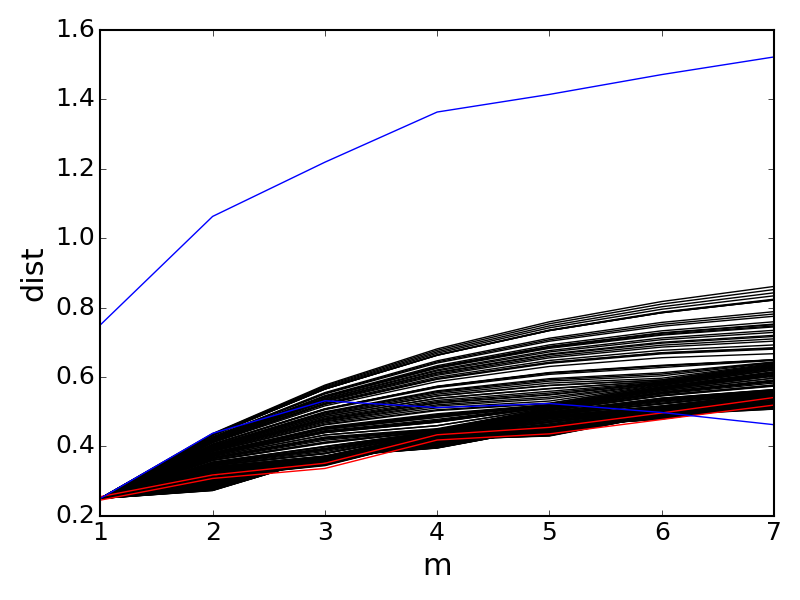
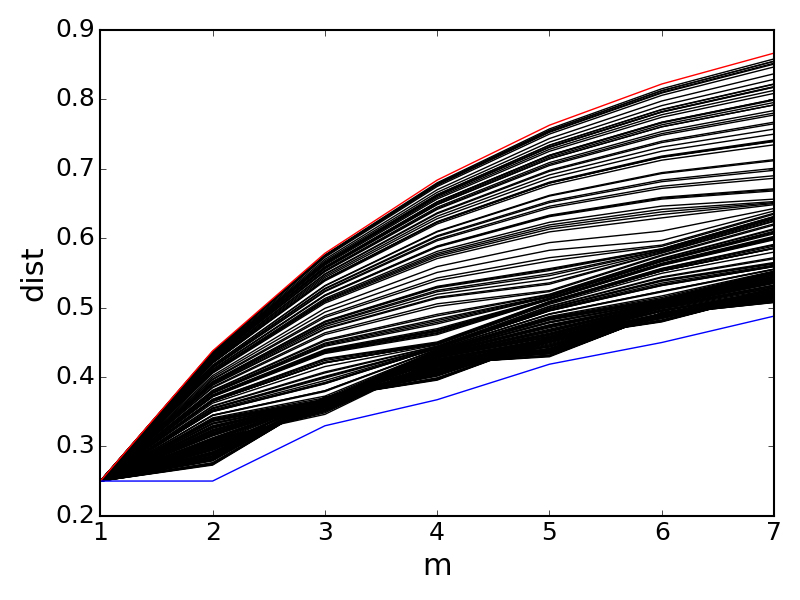
Site updated at 2018-08-27 13:13:53 UTC

diff --git a/blog/2018/07/22/study4/index.html b/blog/2018/07/22/study4/index.html
@@ -294,7 +294,7 @@ d _1 (\rho _0 ^m, \rho _r ^m) = \frac{1}{2} \cdot \sum _{k = 0} ^{m} {m \choose 
 
 <p>One can check that when $\Vert \vec{r} \Vert _2 = 1$, $d _1(\rho _0 ^m , \rho _r ^m) = 1 - \frac{1}{2 ^m}$, which coincides with the result.</p>
 
-<p>To show a signficant distance split in 2 dimensional cases, we consider the example in the following figure. It shows the possible region of $d _1(\rho ^n, \rho _x ^n)$ among all possible $\rho _x$ such that $d _1(\rho, \rho _x ) = 0.25$, and $\rho$ is randomly selected on a $0.5-$ radius Bloch sphere.</p>
+<p>To show a signficant distance split in 2 dimensional cases, we consider the example in the following figure. It shows the possible region of $d _1(\rho ^m, \rho _x ^m)$ among all possible $\rho _x$ such that $d _1(\rho, \rho _x ) = 0.25$, and $\rho$ is randomly selected on a $0.5-$ radius Bloch sphere.</p>
 
 <p><img src="/images/re.png" alt="alt text" /></p>
 
@@ -328,8 +328,47 @@ is defined as:
 
 <p><img src="/images/classical.png" alt="alt text" /></p>
 
-<p>And the quantum mode collapse region is plotted as below:
-<img src="/images/quantum.png" alt="alt text" /></p>
+<p>And the quantum mode collapse region is plotted as below:</p>
+
+<p><img src="/images/quantum.png" alt="alt text" /></p>
+
+<p>As from the experiment result, both the classical and quantum mode collapse
+region are the same. In fact, we can prove the following theorem:</p>
+
+<div class="theorem">
+For arbitrary classical distribution pair $(P, Q)$ and their corresponding (diagonal) quantum state $(\rho _P, \rho _Q)$, we have:
+
+\begin{eqnarray}
+&amp;&amp; \mathcal{R}(P,Q) = \mathcal{R} _q (\rho _P, \rho _Q)
+\end{eqnarray}
+</div>
+
+<p>How do we associate the mode collapse region with the divergence bound ? In
+Zinan’s work, he first observe that if $\mathcal{R} (P _1,Q _1) \subset
+\mathcal{R} (P _2, Q _2) $, then $d _p(P _1,Q _1) \leq d _p(P _2, Q _2)$. Thus, the problem of bounding divergence is associated with bounding the mode collpase region.</p>
+
+<p>Furthermore, a key lemma for bounding the mode collapse region is resulted from an implication of the Blackwell’s theorem :</p>
+
+<p>\begin{eqnarray}
+&amp;&amp; \mathcal{R} (P _1, Q _1) \subset \mathcal{R} (P _2, Q _2) \rightarrow
+\mathcal{R} (P _1 ^m, Q _1 ^m) \subset \mathcal{R} (P _2 ^m, Q _2 ^m) \; \forall \; m
+\end{eqnarray}</p>
+
+<p>Interestingly, a quantum counterpart of the Blackwell’s theorem: _ <a href="https://arxiv.org/abs/quant-ph/0410233">the Shmaya’s theorem</a> leads to a same implication for quantum mode collapse region. We can prove that:</p>
+
+<div class="theorem">
+\begin{eqnarray}
+&amp;&amp; \mathcal{R} _q (\rho _{P _1} , \rho _{Q _1}) \subset \mathcal{R} _q (\rho _{P _2}, \rho _{Q _2}) \rightarrow
+\mathcal{R} _q( \rho _{P _1} ^m, \rho _{Q _1} ^m) \subset \mathcal{R} _q (\rho _{P _2} ^m, \rho _{Q _2} ^m) \; \forall \; m
+\end{eqnarray}
+
+</div>
+
+<p>Combining the above two theorem, the bound obtained by Zinan in the classical literature is actually applicable for the quantum case. For instance, consider the last experiment in the previous section, we can almost tightly bound all the possible value region for $d _1 (\rho ^m, \rho _x ^m )$ with $\rho _x$ satisfying $d _1(\rho, \rho _x) = 0.25$:</p>
+
+<p><img src="/images/preder.png" alt="alt text" /></p>
+
+<p>As the result, all the split phenomenon caused by mode collapse in the classical setting can be adopted in the quantum counterpart.</p>
 
 </div>
   <footer>
